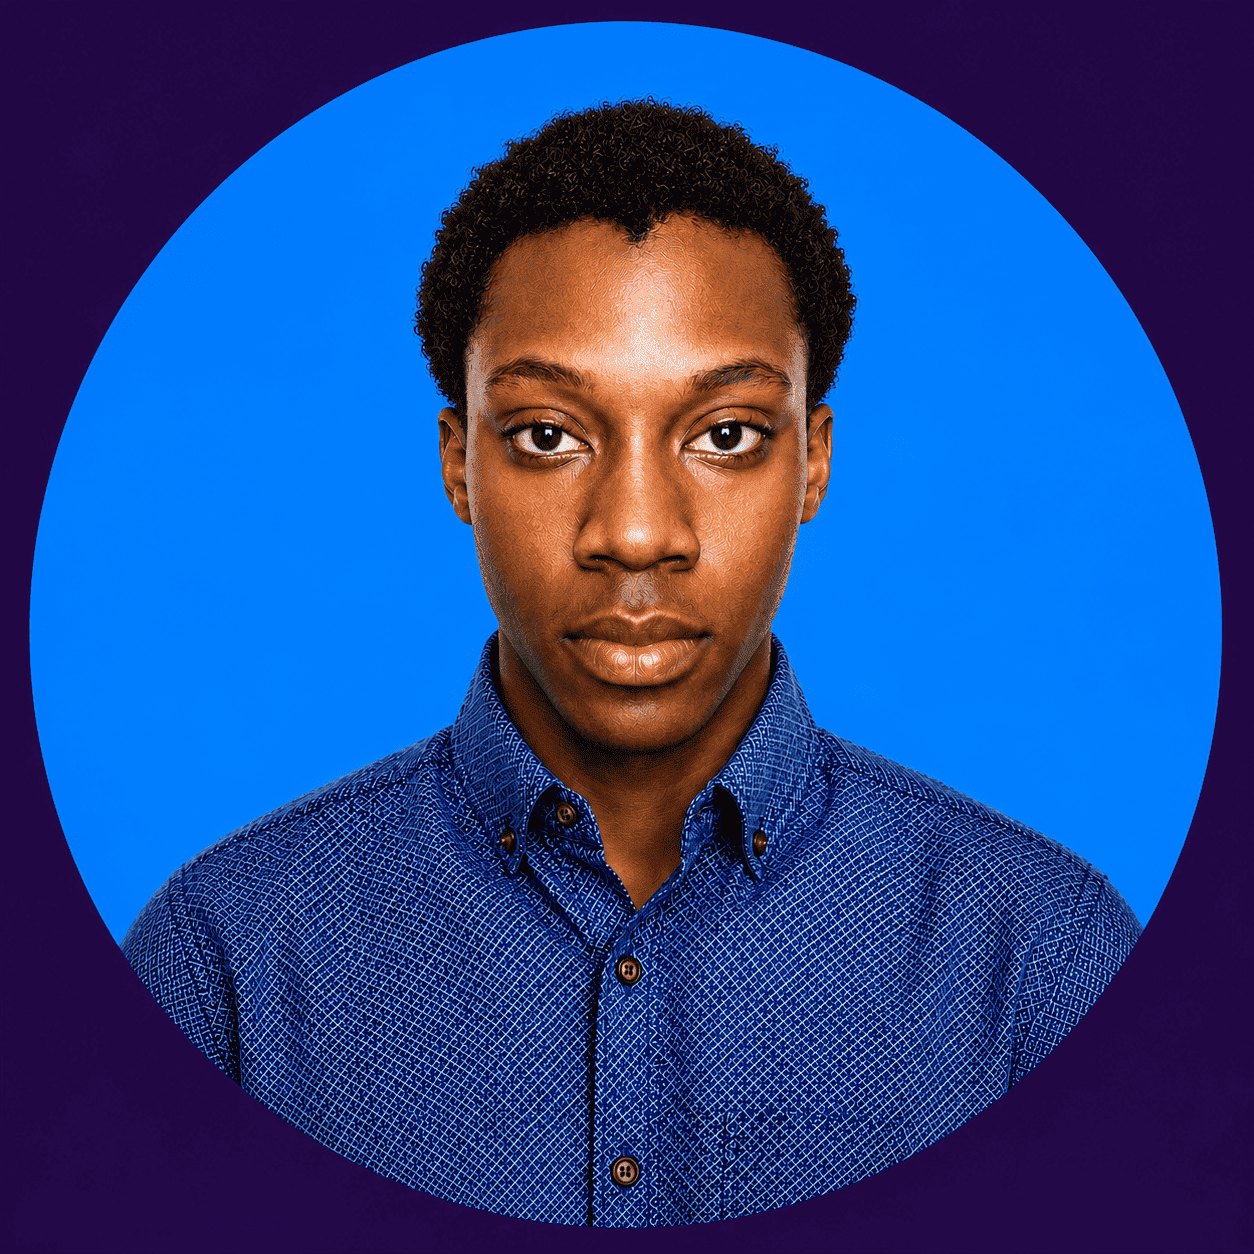
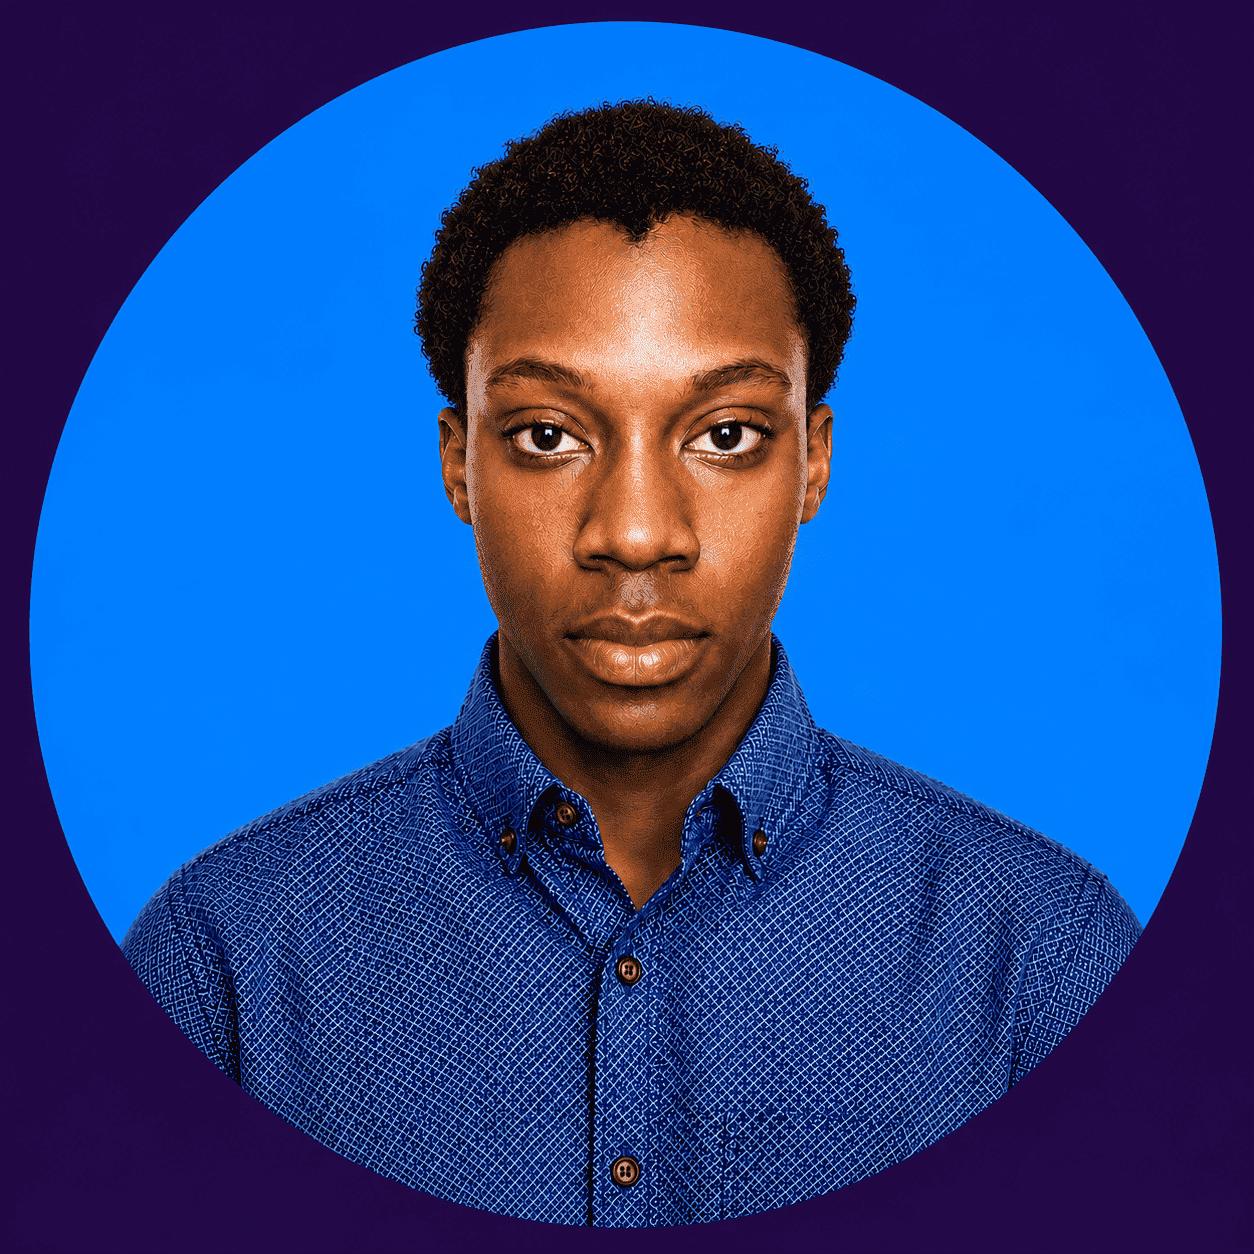
Add files via upload

diff --git a/index.html b/index.html
@@ -470,6 +470,7 @@ justify-content:center;
 
 }
 
+
 </style>
 
 <body>
@@ -499,10 +500,10 @@ justify-content:center;
                         <a style="color: white; font-weight: 600;" class="nav-link" href="#services.html"> Services </a>
                         </li>
                         <li class="nav-item">
-                        <a style="color: white;font-weight: 600;" class="nav-link" href="#"> Portfolio </a>
+                        <a style="color: white;font-weight: 600;" class="nav-link" href="#footer"> Portfolio </a>
                         </li>
                         <li class="nav-item">
-                        <a style="color: white;font-weight: 600;" class="nav-link" href="#"> Blog </a>
+                        <a style="color: white;font-weight: 600;" class="nav-link" href="#footer"> Blog </a>
                         </li>
                         <li class="nav-item">
                         <a style="color: white;font-weight: 600;" class="nav-link" href="#"> Contact </a>
@@ -532,7 +533,7 @@ justify-content:center;
                     <span style="color: white; font-size: 100px; line-height: 100%;font-weight: 600;"> Benni<br><span> Samuel</span> </span>
 
                     <div class="d-flex align-items-center ">
-                        <p style="color: white; font-weight: 400; font-size: 20px;"> Nigeria based </p>
+                        <p style="color: white; font-weight: 400; font-size: 20px;"> Freelance </p>
                         <p class="ms-3 "  style="color: white; font-size: 25px; font-weight: 800;"> Web designer</h3>
                     </div>
                     
@@ -551,7 +552,7 @@ justify-content:center;
                         <div class="card-body">
                             <i style="font-size: 40px; color: dodgerblue;" class="fa-solid fa-gear"></i>
                             <h4 style="color: white;" class="mt-3"> Deeper Skillset </h4>
-                            <p class="mt-3 text-light">Lorem ipsum dolor sit amet consectetur adipisicing elit. Laudantium quasi quas facere accusamus. Omnis iure sequi quisquam officiis facilis impedit labore.</p>
+                            <p class="mt-3 text-light">I have developed over the years a deeper skillset in programming, having a good understanding of how codes should be coded and different skills in coding. </p>
                         </div>
 
                     </div>
@@ -562,7 +563,7 @@ justify-content:center;
                         <div class="card-body">
                            <i style="font-size: 40px; color: dodgerblue;" class="fa-solid fa-briefcase"></i>
                            <h4 style="color: white;" class="mt-3"> Creative Work  </h4>
-                            <p class="mt-3 text-light">Lorem ipsum dolor sit amet consectetur adipisicing elit. Laudantium quasi quas facere accusamus. Omnis iure sequi quisquam officiis facilis impedit labore.</p>
+                            <p class="mt-3 text-light"> Websites is mostly about a good creative work , understanding designs, color combination, and eye catching websites art work. </p>
                         </div>
 
                     </div>
@@ -573,7 +574,7 @@ justify-content:center;
                         <div class="card-body">
                            <i style="font-size: 40px; color: dodgerblue;" class="fa-regular fa-gem"></i>
                            <h4 style="color: white;" class="mt-3"> Strong Dedication </h4>
-                            <p class="mt-3 text-light">Lorem ipsum dolor sit amet consectetur adipisicing elit. Laudantium quasi quas facere accusamus. Omnis iure sequi quisquam officiis facilis impedit labore.</p>
+                            <p class="mt-3 text-light"> Dedication is what makes us programmers to be deeply commited to coding , without dedication we cant be eager to find out new designs, code, skills even when it gets tough.</p>
                         </div>
 
                     </div>
@@ -823,7 +824,7 @@ justify-content:center;
  
         </div>
 
-        <footer style="background-color: midnightblue;" class="footer mt-5 mb-5">
+        <footer style="background-color: midnightblue;" class="footer mt-5 mb-5" id="footer">
 
         <div class="footer-content">
 
@@ -859,17 +860,17 @@ justify-content:center;
 
         <div class="col-6 col-md-4 col-lg">
 
-        <h6>Pricing</h6>
+        <h6>Contact</h6>
 
         <ul>
 
-        <li><a href="#">Pricing Overview</a></li>
+        <li><a href="#">bennisamuel345@gmail.com</a></li>
 
-        <li><a href="#">Private Plans</a></li>
+        <li><a href="#">07015660523</a></li>
 
-        <li><a href="#">High Volume Data</a></li>
+        <li><a href="#"></a>Nigeria</li>
 
-        <li><a href="#">Coverage Map</a></li>
+        <li><a href="#"></a></li>
 
         </ul>
 
@@ -936,9 +937,9 @@ justify-content:center;
 
         <div class="col-md-6 text-center text-md-end mt-3 mt-md-0">
             
-             <a href="https://Wa.me/+2347015660523">
+             <a href="blog.html">
                 <span class="status">
-                    Contact now
+                    My works
                 </span>
              </a>
        

diff --git a/blog.html b/blog.html
@@ -6,11 +6,70 @@
     <title>Document</title>
      <link href="https://unpkg.com/aos@2.3.1/dist/aos.css" rel="stylesheet">
 </head>
+<style>
+
+     /* Dashboard image */
+        .dashboard-image {
+
+            /* Smooth animation */
+            transition:
+                transform 0.4s ease,
+                box-shadow 0.4s ease,
+                filter 0.4s ease;
+
+            box-shadow:
+                0 10px 30px rgba(0, 0, 0, 0.12);
+
+            cursor: pointer;
+        }
+
+        /* Animation when cursor touches image */
+        .dashboard-image:hover {
+            transform:
+                translateY(-12px)
+                scale(1.03)
+                rotateX(2deg)
+                rotateY(-2deg);
+
+            box-shadow:
+                0 25px 50px rgba(0, 0, 0, 0.22);
+
+            filter: brightness(1.03);
+        }
+
+        /* Extra click animation */
+        .dashboard-image:active {
+            transform:
+                translateY(-4px)
+                scale(0.99)
+                rotateX(0deg)
+                rotateY(0deg);
+        }
+
+</style>
 <body>
-    <div class="d-flex">
-         <img width="33%" src="img/dasboard.png" alt="">
-         <img width="33%" src="img/gaming.png" alt=""> 
+    <div></div>
+    <h1 style="color: dodgerblue;"> PORTFOLIO </h1>
+    <div class="row">
+
+        <div class="col-lg-6 col-12">
+
+            <a href="https://bennisamuel345-hub.github.io/sam/" class="dashboard-image dashboard-image:hover dashboard-image:active">
+                <img width="49%" src="img/dasboard.png" alt="" class="mt-5">
+            </a>
+
+            <a href="https://bennisamuel345-hub.github.io/ben/" class="dashboard-image dashboard-image:hover dashboard-image:active">
+                <img width="49%" src="img/gaming.png" alt="">
+            </a>
+             
+        </div>
+        
     </div>
-  
+    <p> These images at the top are direct entry to my portfolio which are my previous websites i have made over time which are hosted in my Github account(bennisamuel345-hub.github.io), click on the images to see the full view, new websites that i create will always be uploaded here </p>
+
+<script src="https://unpkg.com/aos@2.3.1/dist/aos.js"></script>
+<script>
+  AOS.init(5000);
+</script>
 </body>
 </html>
